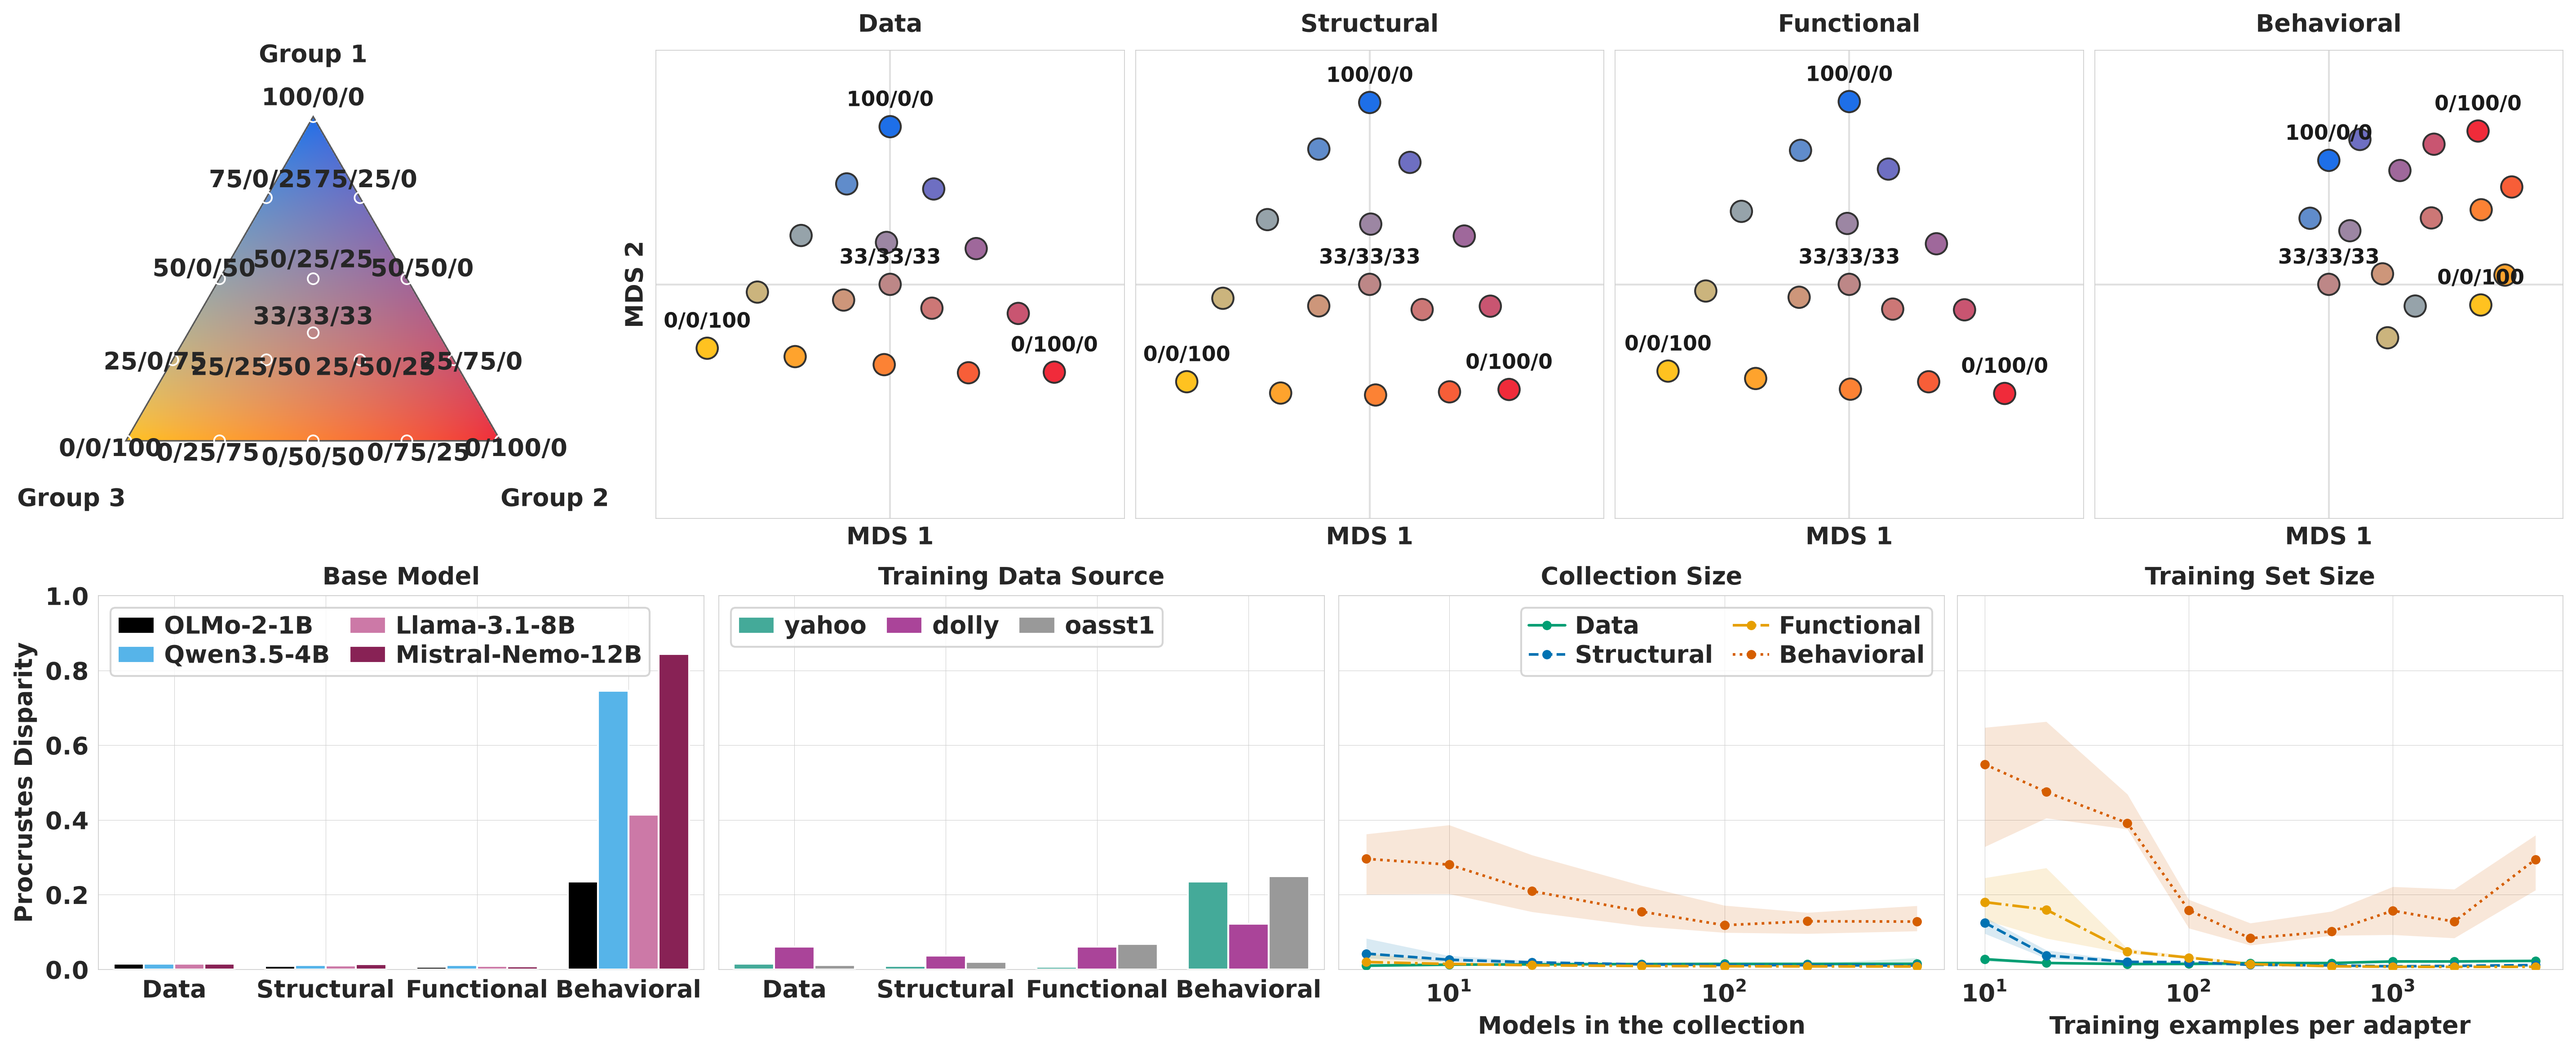
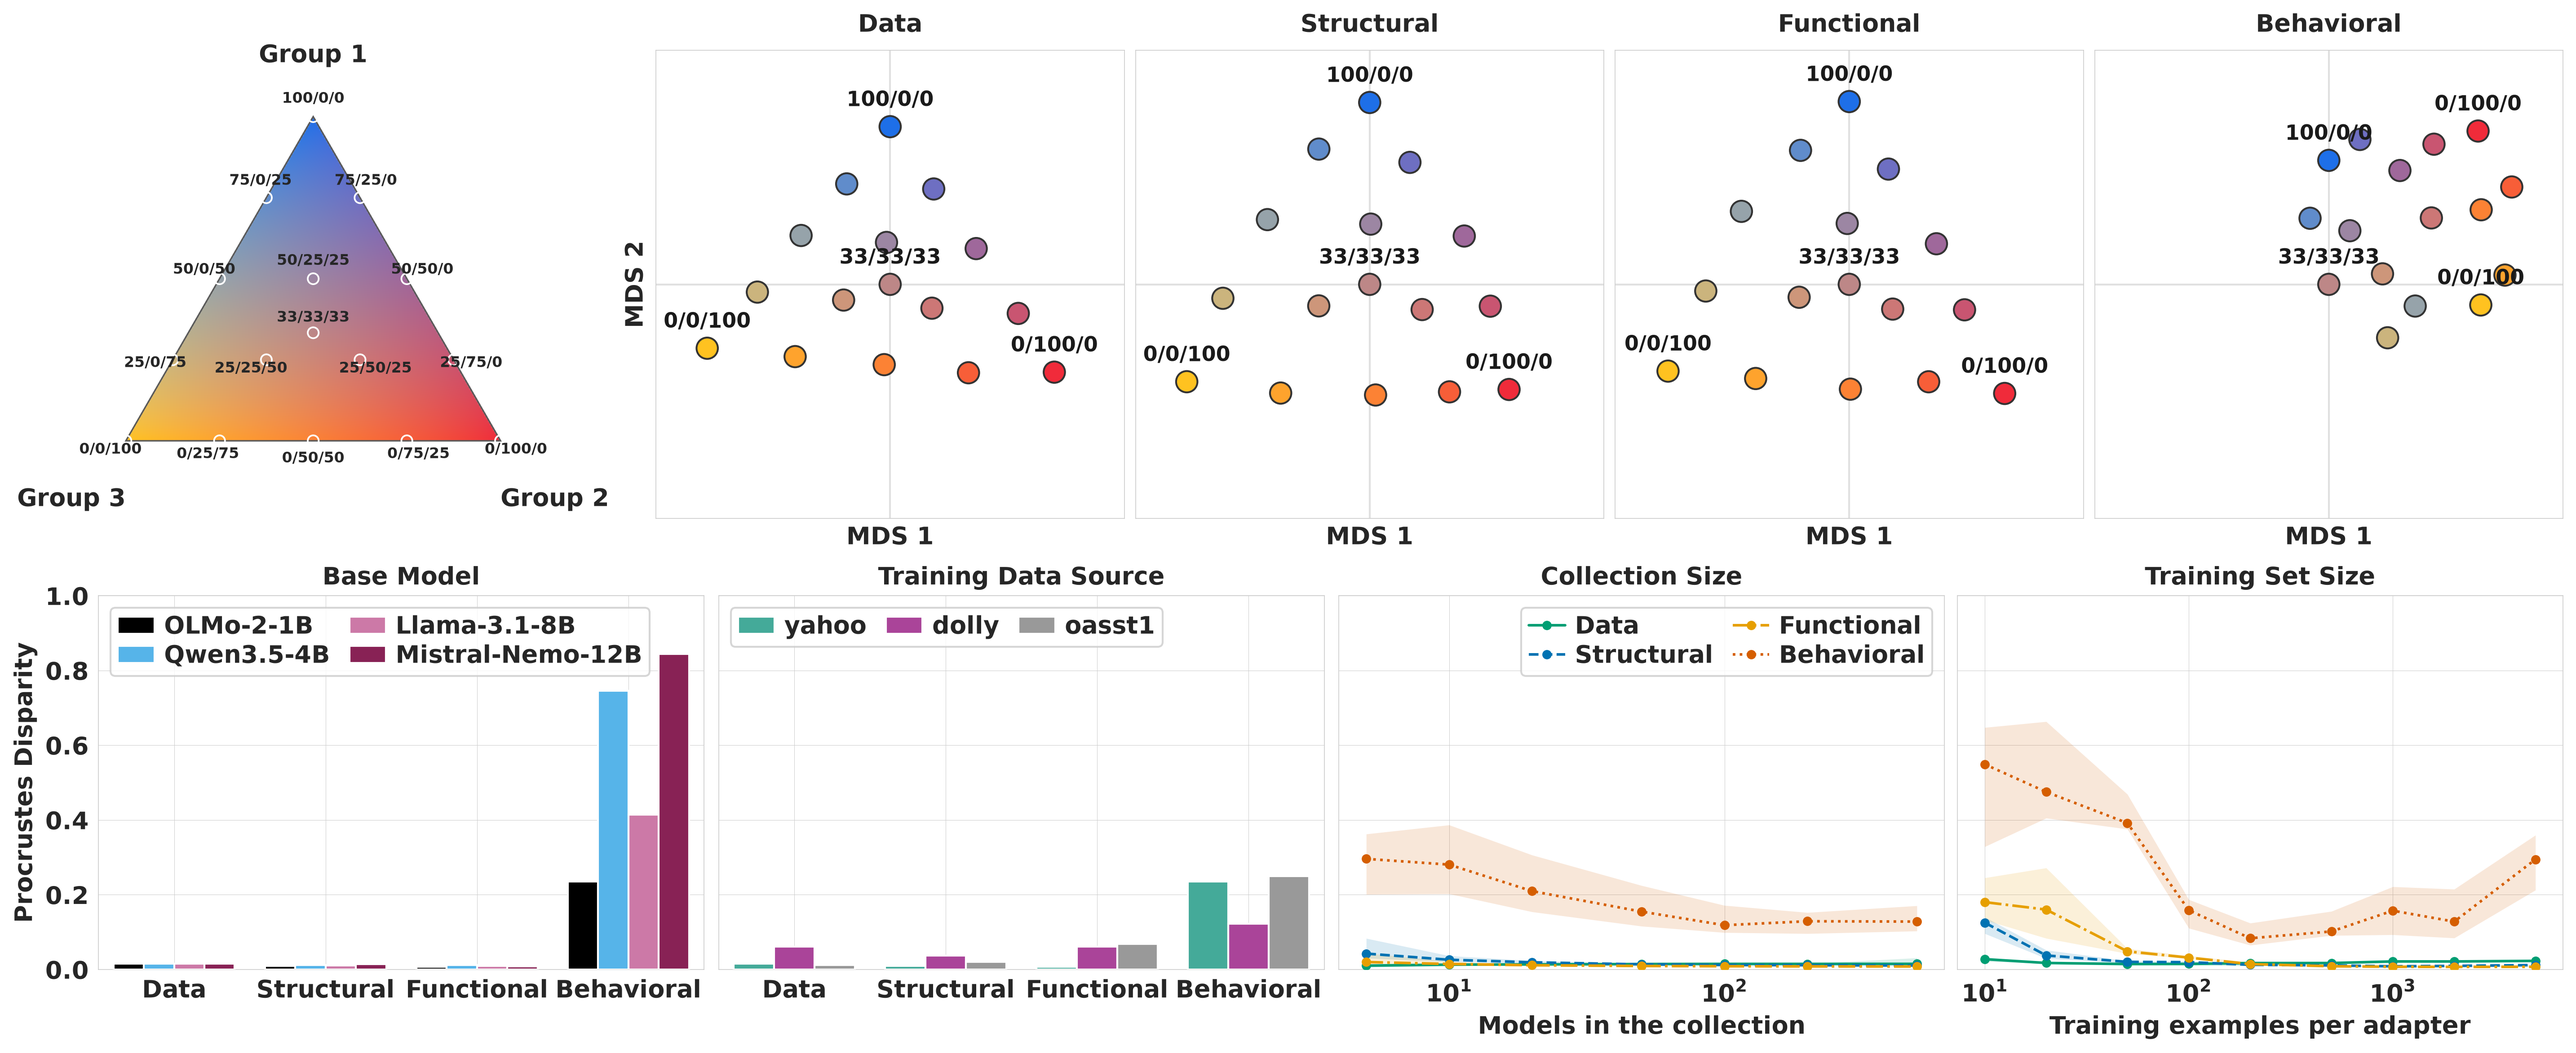
style(figure2): exempt the mixture key's labels from the shared text size
Sixteen labels naming every sampled point on a triangle one panel wide do not
fit at 13 pt -- `75/0/25` runs into `75/25/0` and the bottom row of five is a
single smear. The key is a dense legend rather than a panel, so its mixture
labels drop to 8 pt while its three vertex names stay at FONT_SIZE with
everything else.

Claude-Session: https://claude.ai/code/session_013wT22QHA98vYoz6C7ZiiGN

diff --git a/figures/figure2/make_figures.py b/figures/figure2/make_figures.py
@@ -118,7 +118,9 @@ assembled from do not agree on either by default, because each was written for a
 figure it was the whole of, and side by side in one frame that difference reads
 as emphasis rather than as provenance. The single exception is the vertex and
 centre labels annotated *inside* the MDS panels, which take one step down (see
-:data:`POINT_LABEL_SIZE`) because they sit among the points they name.
+:data:`POINT_LABEL_SIZE`) because they sit among the points they name, and the
+mixture key's sixteen labels, which are smaller again (see
+:data:`KEY_LABEL_SIZE`) because sixteen of them share one triangle.
 
 Usage
 -----
@@ -234,6 +236,14 @@ POINT_LABEL_SIZE = FONT_SIZE - 2
 
 #: The names of the two axes every top-row panel is drawn in.
 MDS_AXES = ("MDS 1", "MDS 2")
+
+#: The mixture key's sixteen labels, which are the one thing in the figure that
+#: cannot be set at :data:`FONT_SIZE`. They name every sampled point on a
+#: triangle the width of one panel, so at 13 pt ``75/0/25`` runs into
+#: ``75/25/0`` and the bottom row of five is a single smear. The key is a dense
+#: legend rather than a panel, and this is the size at which it is readable as
+#: one. The three vertex *names* are unaffected and stay at FONT_SIZE.
+KEY_LABEL_SIZE = 8
 
 
 # ── The four levels, in every form the nine panels need them ──────────────────
@@ -399,7 +409,8 @@ def draw_top_row(fig, gs, levels: list[Level], cells, ids) -> None:
     kax = fig.add_subplot(gs[0, 0])
     ternary_legend(kax, ids, label_models=True,
                    vertex_names=group_display(3), show_topics=False,
-                   label_size=FONT_SIZE, vertex_size=FONT_SIZE, marker_size=34,
+                   label_size=KEY_LABEL_SIZE, vertex_size=FONT_SIZE,
+                   marker_size=34,
                    fontweight="bold", fontfamily=bold_capable_family())
     for k, label in enumerate(PANEL_ORDER):
         ax = crosslevel_panel(fig.add_subplot(gs[0, k + 1]), by_label[label].label,
